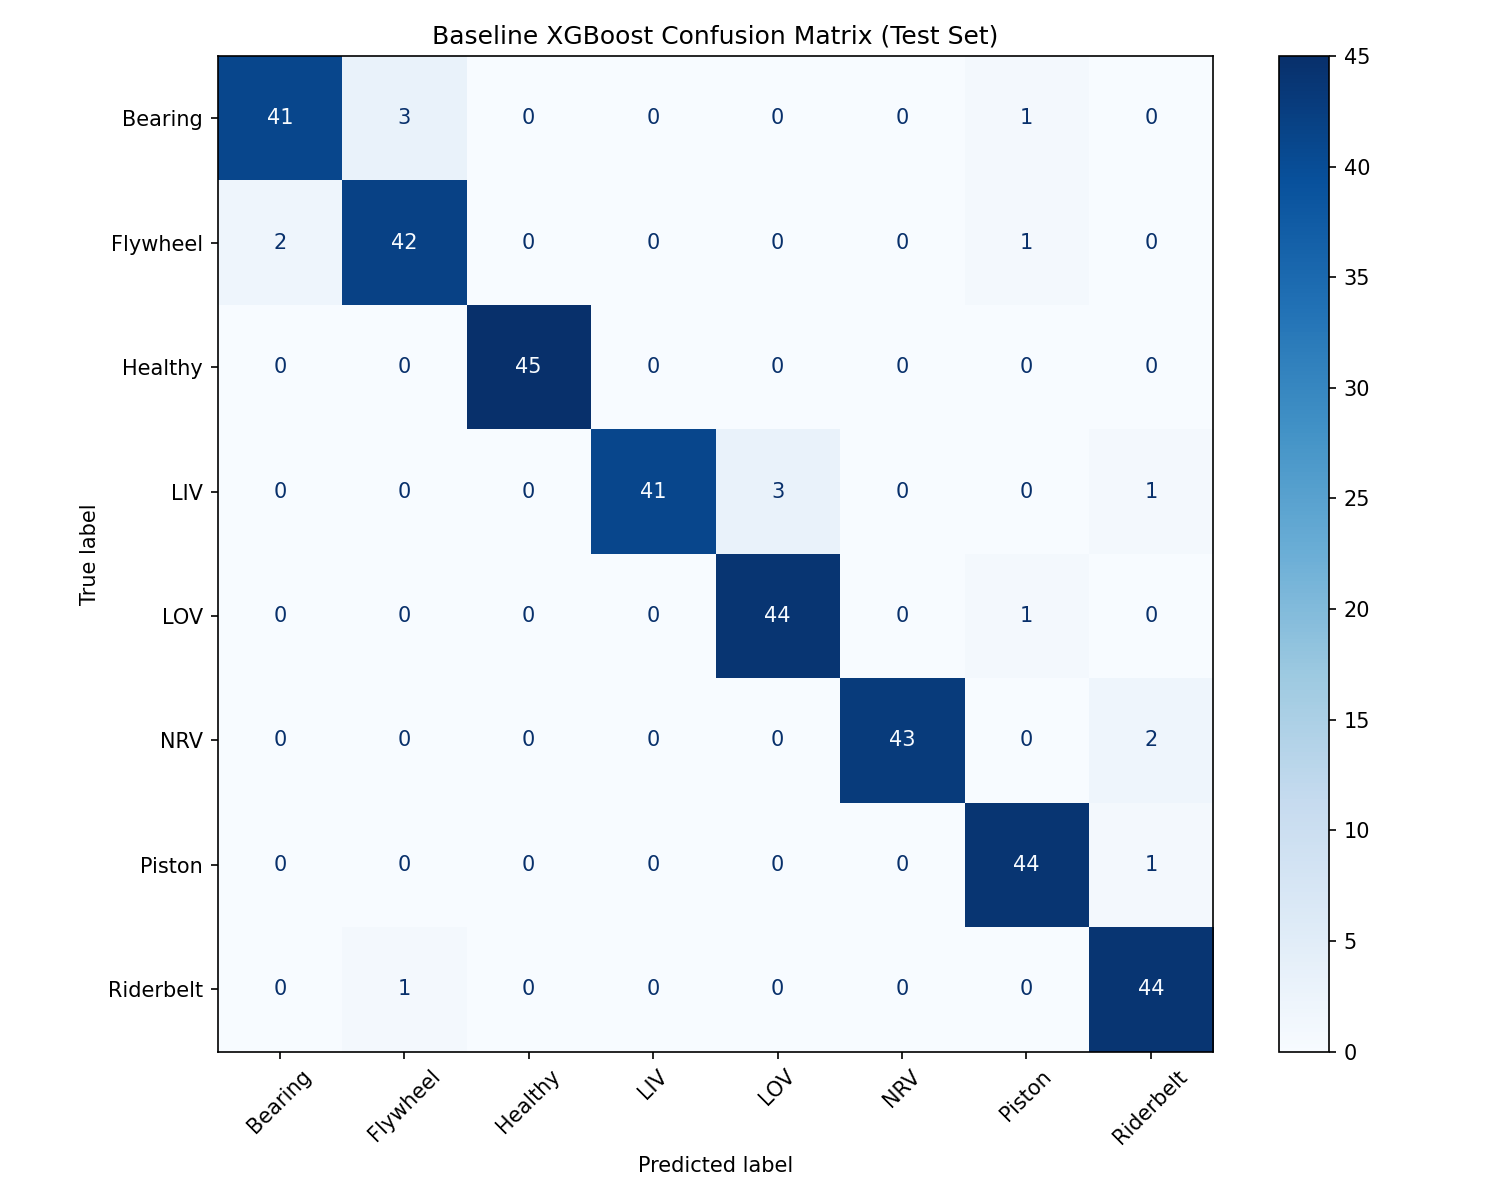
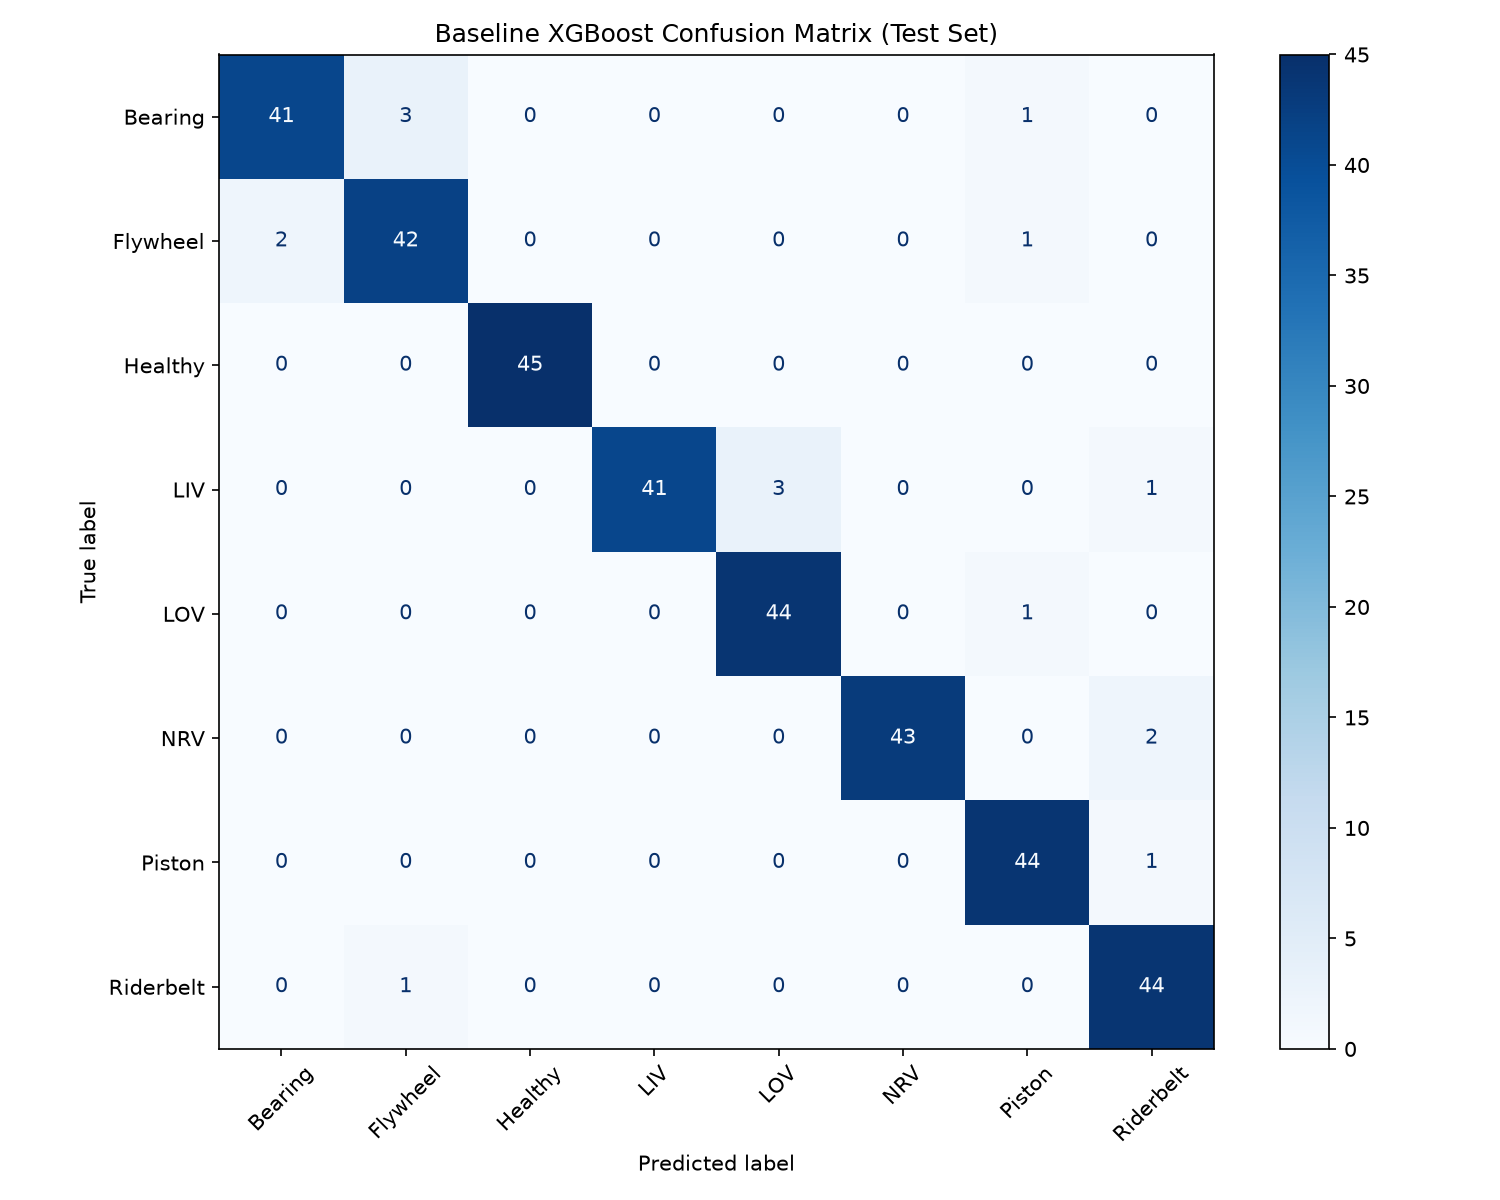
testing changes

diff --git a/scripts/repo_audit.py b/scripts/repo_audit.py
@@ -253,7 +253,7 @@ print(log)
 # 8. TEST SUITE: run it
 # ============================================================
 print("\n--- 8. Test suite ---")
-test_result = run("python -m pytest tests/ -v 2>&1")
+test_result = run(f'"{sys.executable}" -m pytest tests/ -v 2>&1')
 print(test_result)
 
 passed = test_result.count("PASSED")

diff --git a/tests/test_verifier.py b/tests/test_verifier.py
@@ -72,7 +72,7 @@ MOCK_CALIBRATION = {
 # Mock LIV recording features matching the low directions
 MOCK_LIV_RECORDING = {
     "spectral_rolloff_85": 1000.0,
-    "skewness": 0.1,
+    "skewness": -0.1,
     "spectral_centroid": 600.0,
     "wpt_energy_15": 1.0,
     "wpt_energy_18": 1.5,
